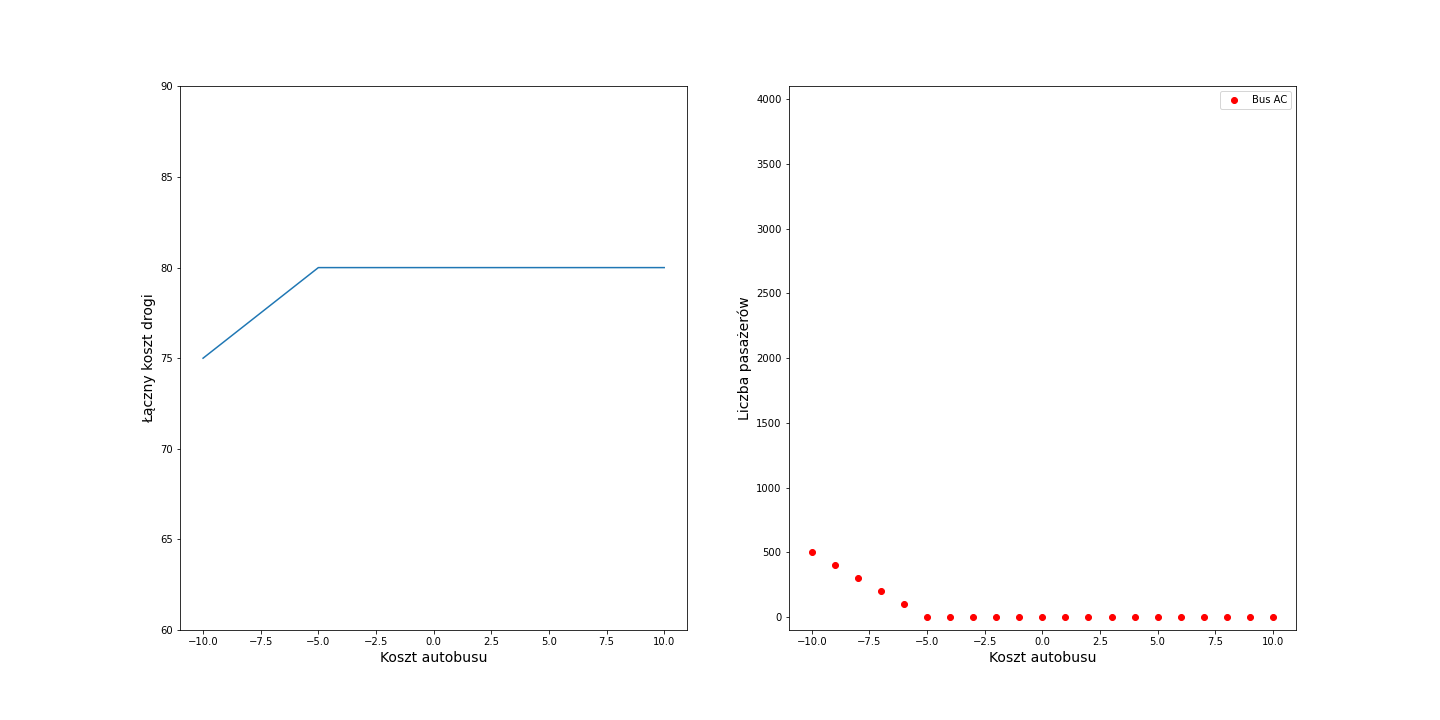
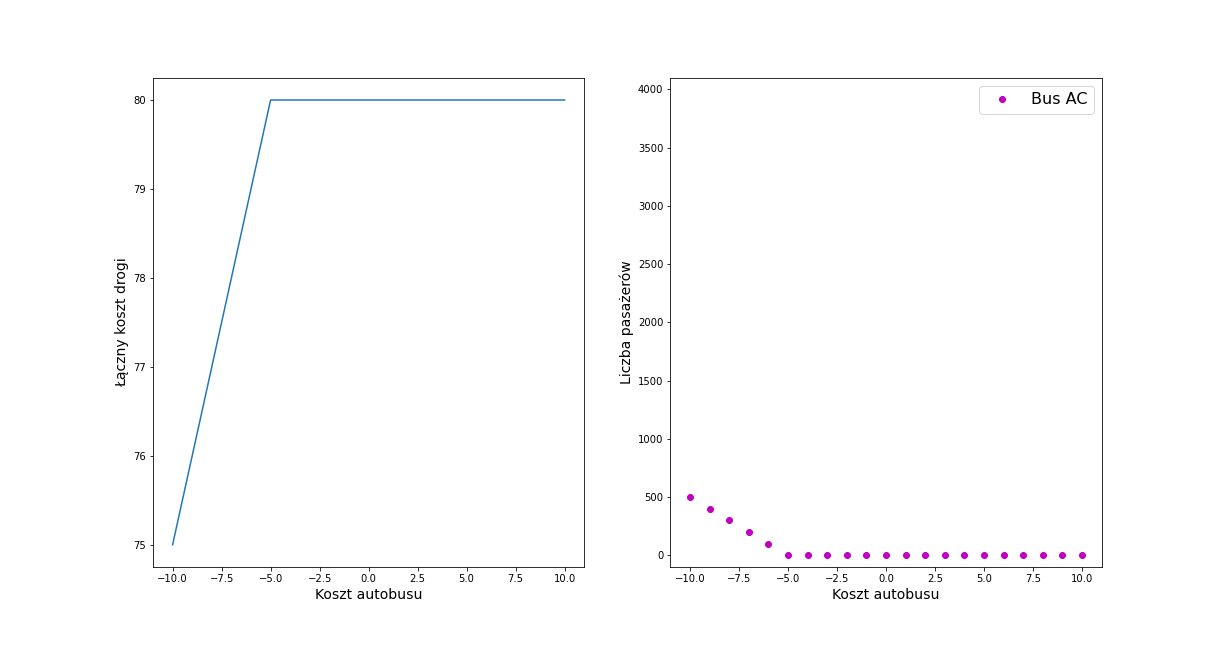
some new plots

diff --git a/simulation_pkg/plot_tools/plot.py b/simulation_pkg/plot_tools/plot.py
@@ -12,11 +12,12 @@ def iterated_results(df, xlabel, filename=""):
     '''
     from config import static_plotdir, BUS_PENALTY_V2
 
-    fig = plt.figure(figsize=(20, 10))
+    fig = plt.figure(figsize=(17, 9))
     plt.subplot(1, 2, 1)
     plt.plot(df["parameter_values"], df["mean_costs"])
-    plt.plot(df["parameter_values"], [65]*len(df["parameter_values"]), "--")
-    plt.plot(df["parameter_values"], [85]*len(df["parameter_values"]), "--")
+    if filename == f"t_buslane - {BUS_PENALTY_V2}":
+        plt.plot(df["parameter_values"], [65]*len(df["parameter_values"]), "--")
+        plt.plot(df["parameter_values"], [85]*len(df["parameter_values"]), "--")
     plt.ylabel("Łączny koszt drogi", fontsize=14), plt.xlabel(xlabel, fontsize=14)
     plt.subplot(1, 2, 2)
     if filename == "t_connector":
@@ -25,14 +26,14 @@ def iterated_results(df, xlabel, filename=""):
         plt.ylabel("Liczba kierowców na drodze", fontsize=14), plt.xlabel(xlabel, fontsize=14)
         plt.legend(fontsize=12)
     elif filename == "bus_penalty_v2":
-        plt.plot(df["parameter_values"], data["bus_count"]["CD - bus"][index], "bo", label="Bus CD")
+        plt.plot(df["parameter_values"], df["bus_count"]["CD - bus"], "co", label="Bus CD")
         plt.ylabel("Liczba pasażerów", fontsize=14), plt.xlabel(xlabel, fontsize=14)
-        plt.legend()
+        plt.legend(fontsize=16)
     elif filename == "bus_penalty_c1":
-        plt.plot(df["parameter_values"], data["bus_count"]["AC - bus"][index], "ro", label="Bus AC")
+        plt.plot(df["parameter_values"], df["bus_count"]["AC - bus"], "mo", label="Bus AC")
         plt.ylabel("Liczba pasażerów", fontsize=14), plt.xlabel(xlabel, fontsize=14)
         plt.ylim(-100, 4100)
-        plt.legend()
+        plt.legend(fontsize=16)
     elif filename == f"t_buslane - {BUS_PENALTY_V2}":
         for path in df["decision_count"].keys():
             plt.plot(df["parameter_values"], df["decision_count"][path], label=path)
